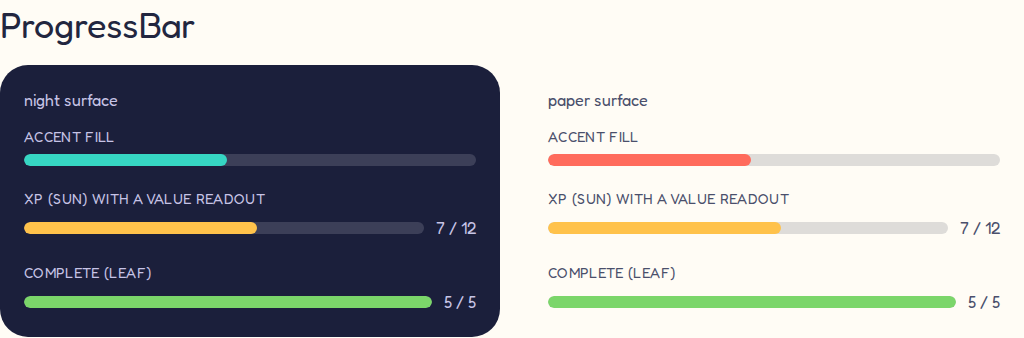
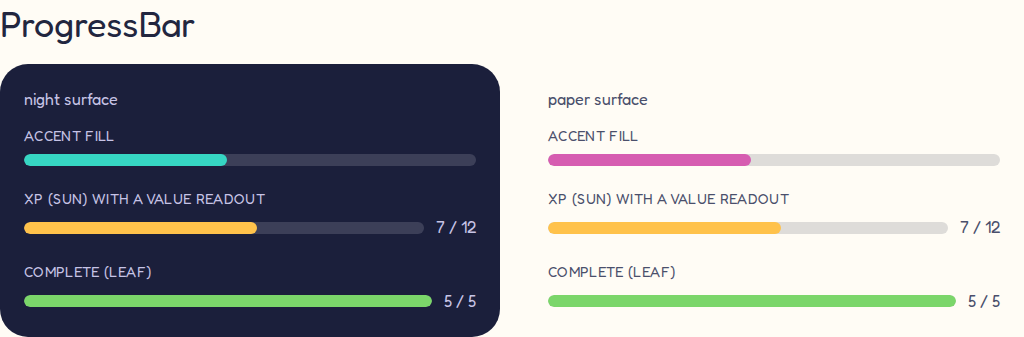
feat(design-system): tokenize danger/tint colors, add berry secondary, standardize tint scale (#49)
* feat(design-system): derive danger tint from --coral, add --berry secondary, standardize tint scale

Colors previously hardcoded outside the token system now derive from primitives:
--surface-danger references named --coral-a11y-* tints instead of bare hex, and
--surface-rule/--surface-elevation use color-mix() off existing primitives instead
of hand-typed rgba(). Introduces --berry as the secondary/playful accent so it no
longer overlaps --coral's wrong-answer/delete meaning. Replaces every ad hoc
bg-color/NN opacity fraction with three named tint steps (--tint-wash/-soft/-fill)
via Tailwind v4's CSS-variable opacity-modifier shorthand, enforced in CI by a new
check:tint-scale script wired into the existing `npm run check` pipeline.

* fix(design-system): swap secondary accent to orchid, derive focus ring from primitives

--berry (#FF6FA5, hue ~337°) sat too close to --coral's red-orange on the wheel
and still read as danger. --orchid (#D65DB1, hue ~320°) fills the actual gap
between --violet and --coral instead of doubling up on the warm-pink family.

Also caught --focus-ring/--focus-ring-inner were hand-picked hex near-duplicates
of --sun/--bg-night rather than references to them — consolidated to var().

* fix(deps): regenerate lockfile to pick up @user/binding-wasm32-wasi optional deps

CI's npm ci was failing with EUSAGE (\"Missing: @user/core@1.11.1,
@user/runtime@1.11.1 from lock file\") on a fresh checkout — reproduced locally
[…]

diff --git a/styles/tokens.css b/styles/tokens.css
@@ -15,11 +15,34 @@
 :root {
   /* --- Brand accent palette (surface-independent) --- */
   --sun: #ffc24b; /* primary action, XP (marigold) */
-  --coral: #ff6b5c; /* secondary / playful accent */
+  /* Wrong-answer / retry / delete accent ONLY — reads as an alarm color, so
+     never use it for a plain secondary choice. See --orchid for that. */
+  --coral: #ff6b5c;
+  --orchid: #d65db1; /* secondary / playful accent (magenta — far enough from --coral's red-orange to never read as danger) */
   --aqua: #36d6c3; /* discovery / "deep" suggestions */
   --leaf: #7bd66a; /* success / correct */
   --violet: #b388ff; /* tertiary accent / magic, "new" breadth */
   --sky: #5ab6ff; /* in-progress / "exploring" (distinct from aqua + violet) */
+
+  /*
+   * Contrast-tuned tints of --coral for SMALL text/icons (coral itself fails
+   * AA at small sizes — see --surface-danger below). Named + grouped with the
+   * primitive they derive from, instead of appearing as bare hex elsewhere.
+   */
+  --coral-a11y-night: #ffa89e; /* ≈6.9:1 on the night panel ✓ */
+  --coral-a11y-paper: #b23a2e; /* ≈5.8:1 on paper ✓ */
+
+  /*
+   * Standard tint scale for translucent fills over a surface (badge/chip
+   * backgrounds, hover washes, soft borders). Referenced by name via
+   * Tailwind's CSS-variable opacity-modifier shorthand — `bg-sun/(--tint-fill)`
+   * — never a bare numeric fraction, so every tinted fill in the app is
+   * pulled from this one named scale. See tokens.md for which step to reach
+   * for; enforced by `npm run check:tint-scale`.
+   */
+  --tint-wash: 10%; /* hover backgrounds, faint overlays */
+  --tint-soft: 15%; /* secondary-emphasis fills (retry/correct choice) */
+  --tint-fill: 20%; /* badge/chip/pill fills */
 
   /* --- Night-sky (play) palette --- */
   --bg-night: #1b1f3b;
@@ -38,9 +61,11 @@
   --correct: var(--leaf);
   --retry: var(--coral);
 
-  /* Focus ring — high-contrast double ring (outer glow + inner contrast line) */
-  --focus-ring: #ffd24b;
-  --focus-ring-inner: #1b1f3b;
+  /* Focus ring — high-contrast double ring (outer glow + inner contrast line).
+     Outer reuses --sun (already tuned for max visibility on both surfaces);
+     inner reuses --bg-night as a dark contrast line regardless of surface. */
+  --focus-ring: var(--sun);
+  --focus-ring-inner: var(--bg-night);
 
   /* --- Type scale (rem; respects user zoom) --- */
   --text-xs: 0.875rem; /* captions, meta */
@@ -67,7 +92,7 @@
   --surface-panel: var(--bg-night-panel);
   --surface-ink: var(--ink-on-night);
   --surface-ink-soft: var(--ink-soft-on-night);
-  --surface-rule: rgba(244, 242, 255, 0.16);
+  --surface-rule: color-mix(in srgb, var(--ink-on-night) 16%, transparent);
   --surface-accent: var(--aqua);
   /*
    * Danger/retry as SMALL text + icons. `--retry` (coral) is a bright accent —
@@ -75,9 +100,9 @@
    * messages use this contrast-safe, surface-tuned variant instead. See
    * docs/10 ("accents are for fills/large elements, not small text").
    */
-  --surface-danger: #ffa89e; /* ≈6.9:1 on the night panel ✓ */
+  --surface-danger: var(--coral-a11y-night);
   /* On night, elevation is a colored glow, not a drop shadow. */
-  --surface-elevation: 0 0 24px rgba(54, 214, 195, 0.18);
+  --surface-elevation: 0 0 24px color-mix(in srgb, var(--aqua) 18%, transparent);
 }
 
 /* Re-assert night (so a nested night region inside paper resets correctly). */
@@ -86,10 +111,10 @@
   --surface-panel: var(--bg-night-panel);
   --surface-ink: var(--ink-on-night);
   --surface-ink-soft: var(--ink-soft-on-night);
-  --surface-rule: rgba(244, 242, 255, 0.16);
+  --surface-rule: color-mix(in srgb, var(--ink-on-night) 16%, transparent);
   --surface-accent: var(--aqua);
-  --surface-danger: #ffa89e;
-  --surface-elevation: 0 0 24px rgba(54, 214, 195, 0.18);
+  --surface-danger: var(--coral-a11y-night);
+  --surface-elevation: 0 0 24px color-mix(in srgb, var(--aqua) 18%, transparent);
 }
 
 /* Field-journal: calm, warm paper with soft low-contrast shadows. */
@@ -99,7 +124,7 @@
   --surface-ink: var(--ink);
   --surface-ink-soft: var(--ink-soft);
   --surface-rule: var(--rule);
-  --surface-accent: var(--coral);
-  --surface-danger: #b23a2e; /* ≈5.8:1 on paper ✓ */
-  --surface-elevation: 0 2px 10px rgba(34, 38, 63, 0.08);
+  --surface-accent: var(--orchid);
+  --surface-danger: var(--coral-a11y-paper);
+  --surface-elevation: 0 2px 10px color-mix(in srgb, var(--ink) 8%, transparent);
 }

diff --git a/components/ui/Badge.tsx b/components/ui/Badge.tsx
@@ -1,7 +1,8 @@
 import type { HTMLAttributes, ReactNode } from "react";
 import { cn } from "@/lib/ui/cn";
 
-export type BadgeTone = "leaf" | "coral" | "aqua" | "violet" | "sky" | "sun";
+export type BadgeTone =
+  "leaf" | "coral" | "orchid" | "aqua" | "violet" | "sky" | "sun";
 export type BadgeSize = "sm" | "xs";
 export type BadgeVariant = "text" | "tag";
 
@@ -26,12 +27,13 @@ export interface BadgeProps extends HTMLAttributes<HTMLSpanElement> {
 // pill inherits `--surface-ink` and reads on either surface with no per-surface
 // styling.
 const toneStyles: Record<BadgeTone, string> = {
-  leaf: "border-leaf bg-leaf/20",
-  coral: "border-coral bg-coral/20",
-  aqua: "border-aqua bg-aqua/20",
-  violet: "border-violet bg-violet/20",
-  sky: "border-sky bg-sky/20",
-  sun: "border-sun bg-sun/20",
+  leaf: "border-leaf bg-leaf/(--tint-fill)",
+  coral: "border-coral bg-coral/(--tint-fill)",
+  orchid: "border-orchid bg-orchid/(--tint-fill)",
+  aqua: "border-aqua bg-aqua/(--tint-fill)",
+  violet: "border-violet bg-violet/(--tint-fill)",
+  sky: "border-sky bg-sky/(--tint-fill)",
+  sun: "border-sun bg-sun/(--tint-fill)",
 };
 
 const sizeStyles: Record<BadgeSize, string> = {

diff --git a/app/dev/components/page.tsx b/app/dev/components/page.tsx
@@ -95,7 +95,13 @@ const ACCENTS: Swatch[] = [
     name: "coral",
     token: "--coral",
     meta: "#FF6B5C",
-    note: "Secondary · retry",
+    note: "Wrong answer · delete",
+  },
+  {
+    name: "orchid",
+    token: "--orchid",
+    meta: "#D65DB1",
+    note: "Secondary · playful",
   },
   {
     name: "aqua",
@@ -179,7 +185,7 @@ const SEMANTIC: Swatch[] = [
   {
     name: "focus-ring",
     token: "--focus-ring",
-    meta: "#FFD24B",
+    meta: "= sun",
     note: "Focus indicator",
   },
 ];
@@ -347,7 +353,7 @@ function PrimitiveTokens() {
               <div key={r.name} className="flex flex-col items-center gap-2">
                 <div
                   className={cn(
-                    "h-16 w-16 border border-surface-rule bg-surface-accent/25",
+                    "h-16 w-16 border border-surface-rule bg-surface-accent/(--tint-fill)",
                     r.cls
                   )}
                 />
@@ -534,6 +540,7 @@ function BadgeVariants() {
         <div className="flex flex-wrap items-center gap-3">
           <Badge tone="leaf">Leaf</Badge>
           <Badge tone="coral">Coral</Badge>
+          <Badge tone="orchid">Orchid</Badge>
           <Badge tone="aqua">Aqua</Badge>
           <Badge tone="violet">Violet</Badge>
           <Badge tone="sky">Sky</Badge>

diff --git a/components/game/TopicNode.tsx b/components/game/TopicNode.tsx
@@ -47,12 +47,14 @@ const STATE: Record<TopicNodeState, { label: string; className: string }> = {
     label: "Exploring",
     // Faint sky glow places it on a light ladder: suggested (flat) → exploring
     // (soft glow) → mastered (bright gold glow), so progress reads by light too.
-    className: "border-sky bg-sky/15 shadow-[0_0_14px_-7px_var(--sky)]",
+    className:
+      "border-sky bg-sky/(--tint-soft) shadow-[0_0_14px_-7px_var(--sky)]",
   },
   mastered: {
     label: "Mastered",
     // Gold glow sells the "expedition stamp" — a fill + shadow, never small text.
-    className: "border-sun bg-sun/15 shadow-[0_0_22px_-6px_var(--sun)]",
+    className:
+      "border-sun bg-sun/(--tint-soft) shadow-[0_0_22px_-6px_var(--sun)]",
   },
 };
 
@@ -174,7 +176,7 @@ export function TopicNode({
             setLeaving(true);
           }}
           aria-label={`Dismiss ${title}`}
-          className="absolute -right-2 -top-2 flex h-11 w-11 items-center justify-center rounded-pill bg-surface text-surface-ink-soft shadow-[var(--surface-elevation)] hover:bg-surface-ink/10"
+          className="absolute -right-2 -top-2 flex h-11 w-11 items-center justify-center rounded-pill bg-surface text-surface-ink-soft shadow-[var(--surface-elevation)] hover:bg-surface-ink/(--tint-wash)"
         >
           <svg
             viewBox="0 0 20 20"

diff --git a/components/reading/QuizChoice.tsx b/components/reading/QuizChoice.tsx
@@ -23,9 +23,9 @@ export interface QuizChoiceProps {
 const stateStyles: Record<QuizChoiceState, string> = {
   default:
     "border-surface-rule bg-surface-panel not-disabled:hover:border-surface-accent",
-  selected: "border-surface-accent bg-surface-accent/10",
-  correct: "border-leaf bg-leaf/20",
-  retry: "border-coral bg-coral/15",
+  selected: "border-surface-accent bg-surface-accent/(--tint-wash)",
+  correct: "border-leaf bg-leaf/(--tint-fill)",
+  retry: "border-coral bg-coral/(--tint-soft)",
 };
 
 type Feedback = { icon: string; label: string; tone: BadgeTone };

diff --git a/components/ui/Button.tsx b/components/ui/Button.tsx
@@ -65,10 +65,10 @@ const variantStyles: Record<ButtonVariant, string> = {
     "border-2 border-transparent bg-sun text-[var(--ink)] not-disabled:hover:brightness-95",
   // Outline that reads on either surface; fills softly on hover (never hover-only meaning).
   secondary:
-    "border-2 border-coral text-surface-ink bg-transparent not-disabled:hover:bg-coral/15",
+    "border-2 border-orchid text-surface-ink bg-transparent not-disabled:hover:bg-orchid/(--tint-soft)",
   // Quiet, for tertiary actions; still a real focusable button.
   ghost:
-    "border-2 border-transparent bg-transparent text-surface-ink not-disabled:hover:bg-surface-ink/10",
+    "border-2 border-transparent bg-transparent text-surface-ink not-disabled:hover:bg-surface-ink/(--tint-wash)",
 };
 
 const sizeStyles: Record<ButtonSize, string> = {

diff --git a/app/(parent)/dashboard/page.tsx b/app/(parent)/dashboard/page.tsx
@@ -71,7 +71,7 @@ function ModelMix({ metrics }: { metrics: DashboardMetrics }) {
               </Text>
             </div>
             <div
-              className="h-2 w-full overflow-hidden rounded-pill bg-surface-ink/10"
+              className="h-2 w-full overflow-hidden rounded-pill bg-surface-ink/(--tint-wash)"
               role="presentation"
             >
               <div

diff --git a/components/game/ExpeditionStamp.tsx b/components/game/ExpeditionStamp.tsx
@@ -23,7 +23,7 @@ export function ExpeditionStamp({ title, className }: ExpeditionStampProps) {
       aria-label={`${title} Master badge`}
       className={cn(
         "flex h-28 w-28 -rotate-6 flex-col items-center justify-center gap-0.5 rounded-full text-center",
-        "border-4 border-dashed border-sun bg-sun/15 text-surface-ink",
+        "border-4 border-dashed border-sun bg-sun/(--tint-soft) text-surface-ink",
         "shadow-[0_0_26px_-6px_var(--sun)] motion-safe:animate-stamp",
         className
       )}

diff --git a/components/game/RewardBurst.tsx b/components/game/RewardBurst.tsx
@@ -23,7 +23,7 @@ export function RewardBurst({ xp, className }: RewardBurstProps) {
     <div
       aria-live="polite"
       className={cn(
-        "inline-flex items-center gap-2 rounded-pill bg-sun/20 px-4 py-2",
+        "inline-flex items-center gap-2 rounded-pill bg-sun/(--tint-fill) px-4 py-2",
         "font-display text-lg font-semibold text-surface-ink",
         "motion-safe:animate-burst",
         className

diff --git a/components/game/WorldMap.tsx b/components/game/WorldMap.tsx
@@ -140,7 +140,7 @@ export function WorldMap({ nodes, onSelect, onDismiss }: WorldMapProps) {
                 <button
                   type="button"
                   onClick={() => onSelect(node)}
-                  className="flex w-full items-center gap-2 py-3 text-left transition-colors hover:bg-surface-ink/5"
+                  className="flex w-full items-center gap-2 py-3 text-left transition-colors hover:bg-surface-ink/(--tint-wash)"
                 >
                   <span aria-hidden="true" className="text-base leading-none">
                     🏅

diff --git a/components/game/XPBar.tsx b/components/game/XPBar.tsx
@@ -37,7 +37,7 @@ export function XPBar({ xp, className }: XPBarProps) {
   return (
     <div className={cn("flex items-center gap-3", className)}>
       <span
-        className="shrink-0 rounded-pill bg-sun/20 px-3 py-1 font-display text-sm font-semibold whitespace-nowrap text-surface-ink"
+        className="shrink-0 rounded-pill bg-sun/(--tint-fill) px-3 py-1 font-display text-sm font-semibold whitespace-nowrap text-surface-ink"
         // The number is echoed in the progress bar's live summary below; keep
         // this chip out of the a11y tree so it isn't announced twice.
         aria-hidden="true"

diff --git a/components/ui/Modal.tsx b/components/ui/Modal.tsx
@@ -85,7 +85,7 @@ export function Modal({
               type="button"
               onClick={onClose}
               aria-label="Close"
-              className="-mr-1 -mt-1 flex h-11 w-11 shrink-0 items-center justify-center rounded-pill text-surface-ink-soft hover:bg-surface-ink/10"
+              className="-mr-1 -mt-1 flex h-11 w-11 shrink-0 items-center justify-center rounded-pill text-surface-ink-soft hover:bg-surface-ink/(--tint-wash)"
             >
               <svg
                 viewBox="0 0 20 20"